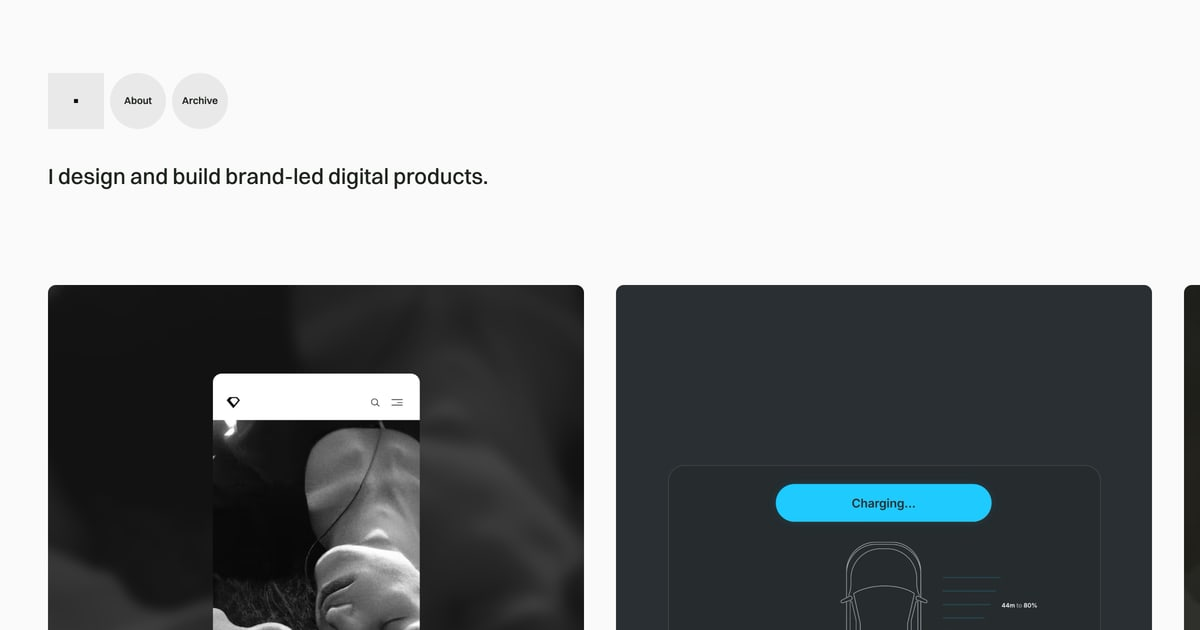
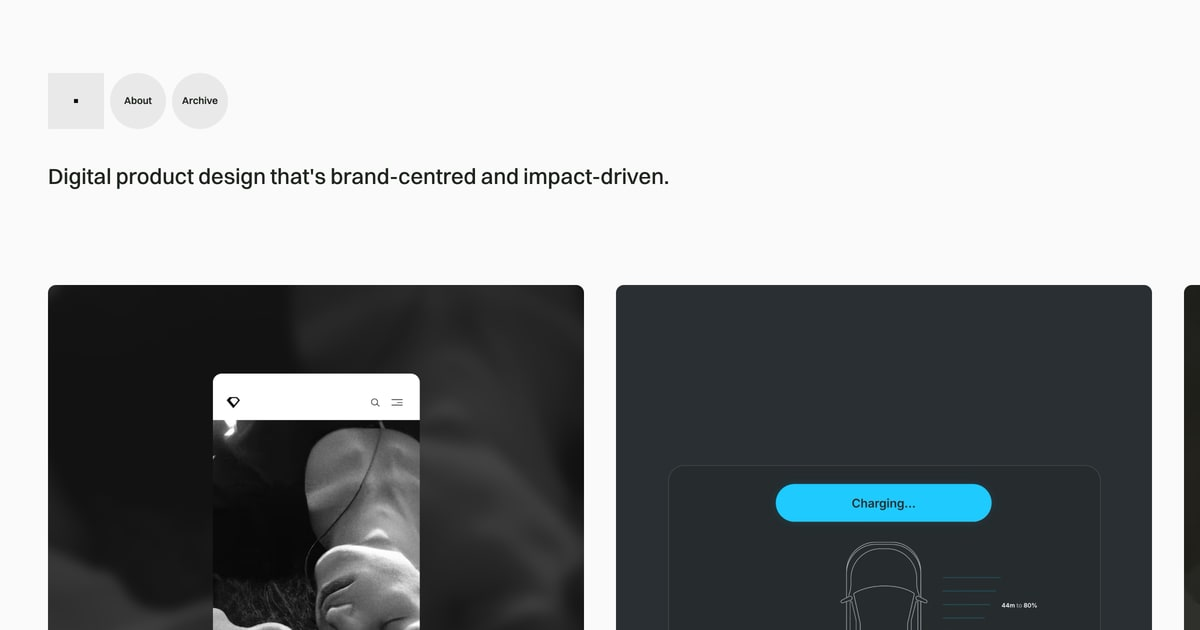
Home headline: Digital product design that's brand-centred and impact-driven

Changed region(s): [[0.0308, 0.2714, 0.555, 0.3016]]

diff --git a/site/index.html b/site/index.html
@@ -25,17 +25,17 @@
     })();
   </script>
   <title>Philip Readman — Product Design</title>
-  <meta name="description" content="I design and build brand-led digital products.">
+  <meta name="description" content="Digital product design that's brand-centred and impact-driven.">
   <!-- Share previews (Slack, LinkedIn, iMessage…). Absolute URLs on the final domain. -->
   <meta property="og:type" content="website">
   <meta property="og:site_name" content="Philip Readman">
   <meta property="og:title" content="Philip Readman — Product Design">
-  <meta property="og:description" content="I design and build brand-led digital products.">
+  <meta property="og:description" content="Digital product design that's brand-centred and impact-driven.">
   <meta property="og:url" content="https://philipreadman.com/">
   <meta property="og:image" content="https://philipreadman.com/og-image.jpg">
   <meta property="og:image:width" content="1200">
   <meta property="og:image:height" content="630">
-  <meta property="og:image:alt" content="Philip Readman: I design and build brand-led digital products.">
+  <meta property="og:image:alt" content="Philip Readman: Digital product design that's brand-centred and impact-driven.">
   <meta name="twitter:card" content="summary_large_image">
   <link rel="preconnect" href="https://api.fontshare.com">
   <link rel="stylesheet" href="https://api.fontshare.com/v2/css?f[]=switzer@500,600&display=swap">
@@ -54,7 +54,7 @@
 
 <main>
   <section class="intro grid">
-    <p>I design and build brand-led digital&nbsp;products.</p>
+    <p>Digital product design that's brand-centred <span style="white-space:nowrap">and impact-driven.</span></p>
   </section>
 
   <section class="work-pin" aria-label="Selected work">

diff --git a/site/about.html b/site/about.html
@@ -35,7 +35,7 @@
   <meta property="og:image" content="https://philipreadman.com/og-image.jpg">
   <meta property="og:image:width" content="1200">
   <meta property="og:image:height" content="630">
-  <meta property="og:image:alt" content="Philip Readman: I design and build brand-led digital products.">
+  <meta property="og:image:alt" content="Philip Readman: Digital product design that's brand-centred and impact-driven.">
   <meta name="twitter:card" content="summary_large_image">
   <link rel="preconnect" href="https://api.fontshare.com">
   <link rel="stylesheet" href="https://api.fontshare.com/v2/css?f[]=switzer@500,600&display=swap">

diff --git a/site/adidasactive.html b/site/adidasactive.html
@@ -35,7 +35,7 @@
   <meta property="og:image" content="https://philipreadman.com/og-image.jpg">
   <meta property="og:image:width" content="1200">
   <meta property="og:image:height" content="630">
-  <meta property="og:image:alt" content="Philip Readman: I design and build brand-led digital products.">
+  <meta property="og:image:alt" content="Philip Readman: Digital product design that's brand-centred and impact-driven.">
   <meta name="twitter:card" content="summary_large_image">
   <link rel="preconnect" href="https://api.fontshare.com">
   <link rel="stylesheet" href="https://api.fontshare.com/v2/css?f[]=switzer@500,600&display=swap">

diff --git a/site/adidasoutdoor.html b/site/adidasoutdoor.html
@@ -35,7 +35,7 @@
   <meta property="og:image" content="https://philipreadman.com/og-image.jpg">
   <meta property="og:image:width" content="1200">
   <meta property="og:image:height" content="630">
-  <meta property="og:image:alt" content="Philip Readman: I design and build brand-led digital products.">
+  <meta property="og:image:alt" content="Philip Readman: Digital product design that's brand-centred and impact-driven.">
   <meta name="twitter:card" content="summary_large_image">
   <link rel="preconnect" href="https://api.fontshare.com">
   <link rel="stylesheet" href="https://api.fontshare.com/v2/css?f[]=switzer@500,600&display=swap">

diff --git a/site/archive.html b/site/archive.html
@@ -35,7 +35,7 @@
   <meta property="og:image" content="https://philipreadman.com/og-image.jpg">
   <meta property="og:image:width" content="1200">
   <meta property="og:image:height" content="630">
-  <meta property="og:image:alt" content="Philip Readman: I design and build brand-led digital products.">
+  <meta property="og:image:alt" content="Philip Readman: Digital product design that's brand-centred and impact-driven.">
   <meta name="twitter:card" content="summary_large_image">
   <link rel="preconnect" href="https://api.fontshare.com">
   <link rel="stylesheet" href="https://api.fontshare.com/v2/css?f[]=switzer@500,600&display=swap">

diff --git a/site/dobbin.html b/site/dobbin.html
@@ -35,7 +35,7 @@
   <meta property="og:image" content="https://philipreadman.com/og-image.jpg">
   <meta property="og:image:width" content="1200">
   <meta property="og:image:height" content="630">
-  <meta property="og:image:alt" content="Philip Readman: I design and build brand-led digital products.">
+  <meta property="og:image:alt" content="Philip Readman: Digital product design that's brand-centred and impact-driven.">
   <meta name="twitter:card" content="summary_large_image">
   <link rel="preconnect" href="https://api.fontshare.com">
   <link rel="stylesheet" href="https://api.fontshare.com/v2/css?f[]=switzer@500,600&display=swap">

diff --git a/site/petalite.html b/site/petalite.html
@@ -35,7 +35,7 @@
   <meta property="og:image" content="https://philipreadman.com/og-image.jpg">
   <meta property="og:image:width" content="1200">
   <meta property="og:image:height" content="630">
-  <meta property="og:image:alt" content="Philip Readman: I design and build brand-led digital products.">
+  <meta property="og:image:alt" content="Philip Readman: Digital product design that's brand-centred and impact-driven.">
   <meta name="twitter:card" content="summary_large_image">
   <link rel="preconnect" href="https://api.fontshare.com">
   <link rel="stylesheet" href="https://api.fontshare.com/v2/css?f[]=switzer@500,600&display=swap">

diff --git a/site/rovio.html b/site/rovio.html
@@ -35,7 +35,7 @@
   <meta property="og:image" content="https://philipreadman.com/og-image.jpg">
   <meta property="og:image:width" content="1200">
   <meta property="og:image:height" content="630">
-  <meta property="og:image:alt" content="Philip Readman: I design and build brand-led digital products.">
+  <meta property="og:image:alt" content="Philip Readman: Digital product design that's brand-centred and impact-driven.">
   <meta name="twitter:card" content="summary_large_image">
   <link rel="preconnect" href="https://api.fontshare.com">
   <link rel="stylesheet" href="https://api.fontshare.com/v2/css?f[]=switzer@500,600&display=swap">

diff --git a/site/side-project/QuietTable.html b/site/side-project/QuietTable.html
@@ -35,7 +35,7 @@
   <meta property="og:image" content="https://philipreadman.com/og-image.jpg">
   <meta property="og:image:width" content="1200">
   <meta property="og:image:height" content="630">
-  <meta property="og:image:alt" content="Philip Readman: I design and build brand-led digital products.">
+  <meta property="og:image:alt" content="Philip Readman: Digital product design that's brand-centred and impact-driven.">
   <meta name="twitter:card" content="summary_large_image">
   <link rel="preconnect" href="https://api.fontshare.com">
   <link rel="stylesheet" href="https://api.fontshare.com/v2/css?f[]=switzer@500,600&display=swap">

diff --git a/site/superrare.html b/site/superrare.html
@@ -35,7 +35,7 @@
   <meta property="og:image" content="https://philipreadman.com/og-image.jpg">
   <meta property="og:image:width" content="1200">
   <meta property="og:image:height" content="630">
-  <meta property="og:image:alt" content="Philip Readman: I design and build brand-led digital products.">
+  <meta property="og:image:alt" content="Philip Readman: Digital product design that's brand-centred and impact-driven.">
   <meta name="twitter:card" content="summary_large_image">
   <link rel="preconnect" href="https://api.fontshare.com">
   <link rel="stylesheet" href="https://api.fontshare.com/v2/css?f[]=switzer@500,600&display=swap">
